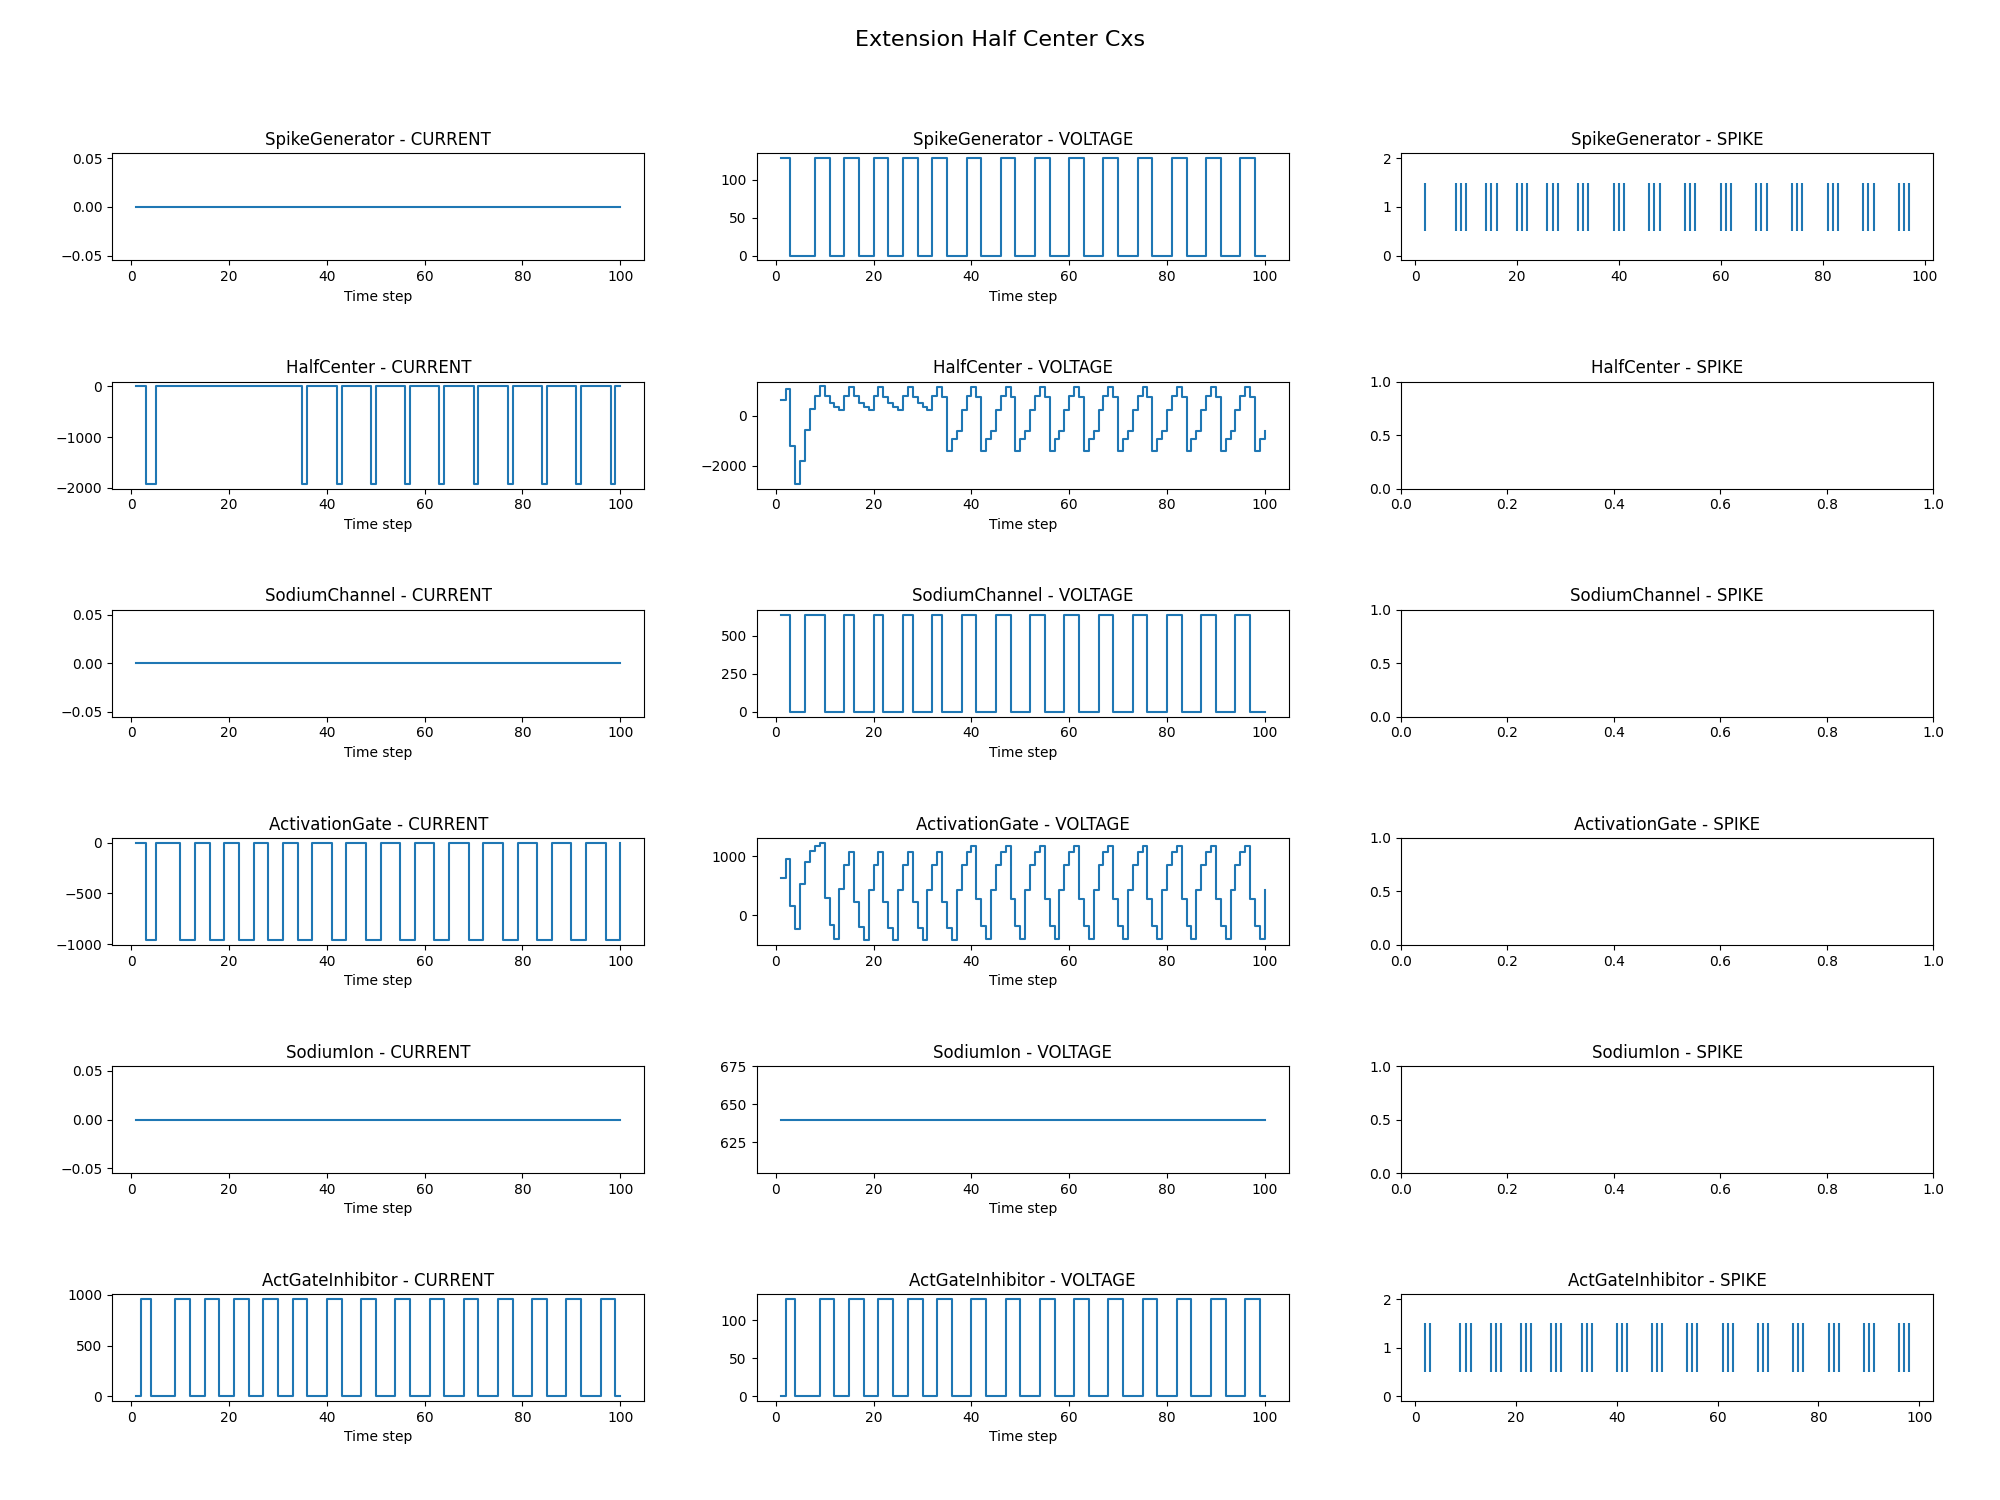
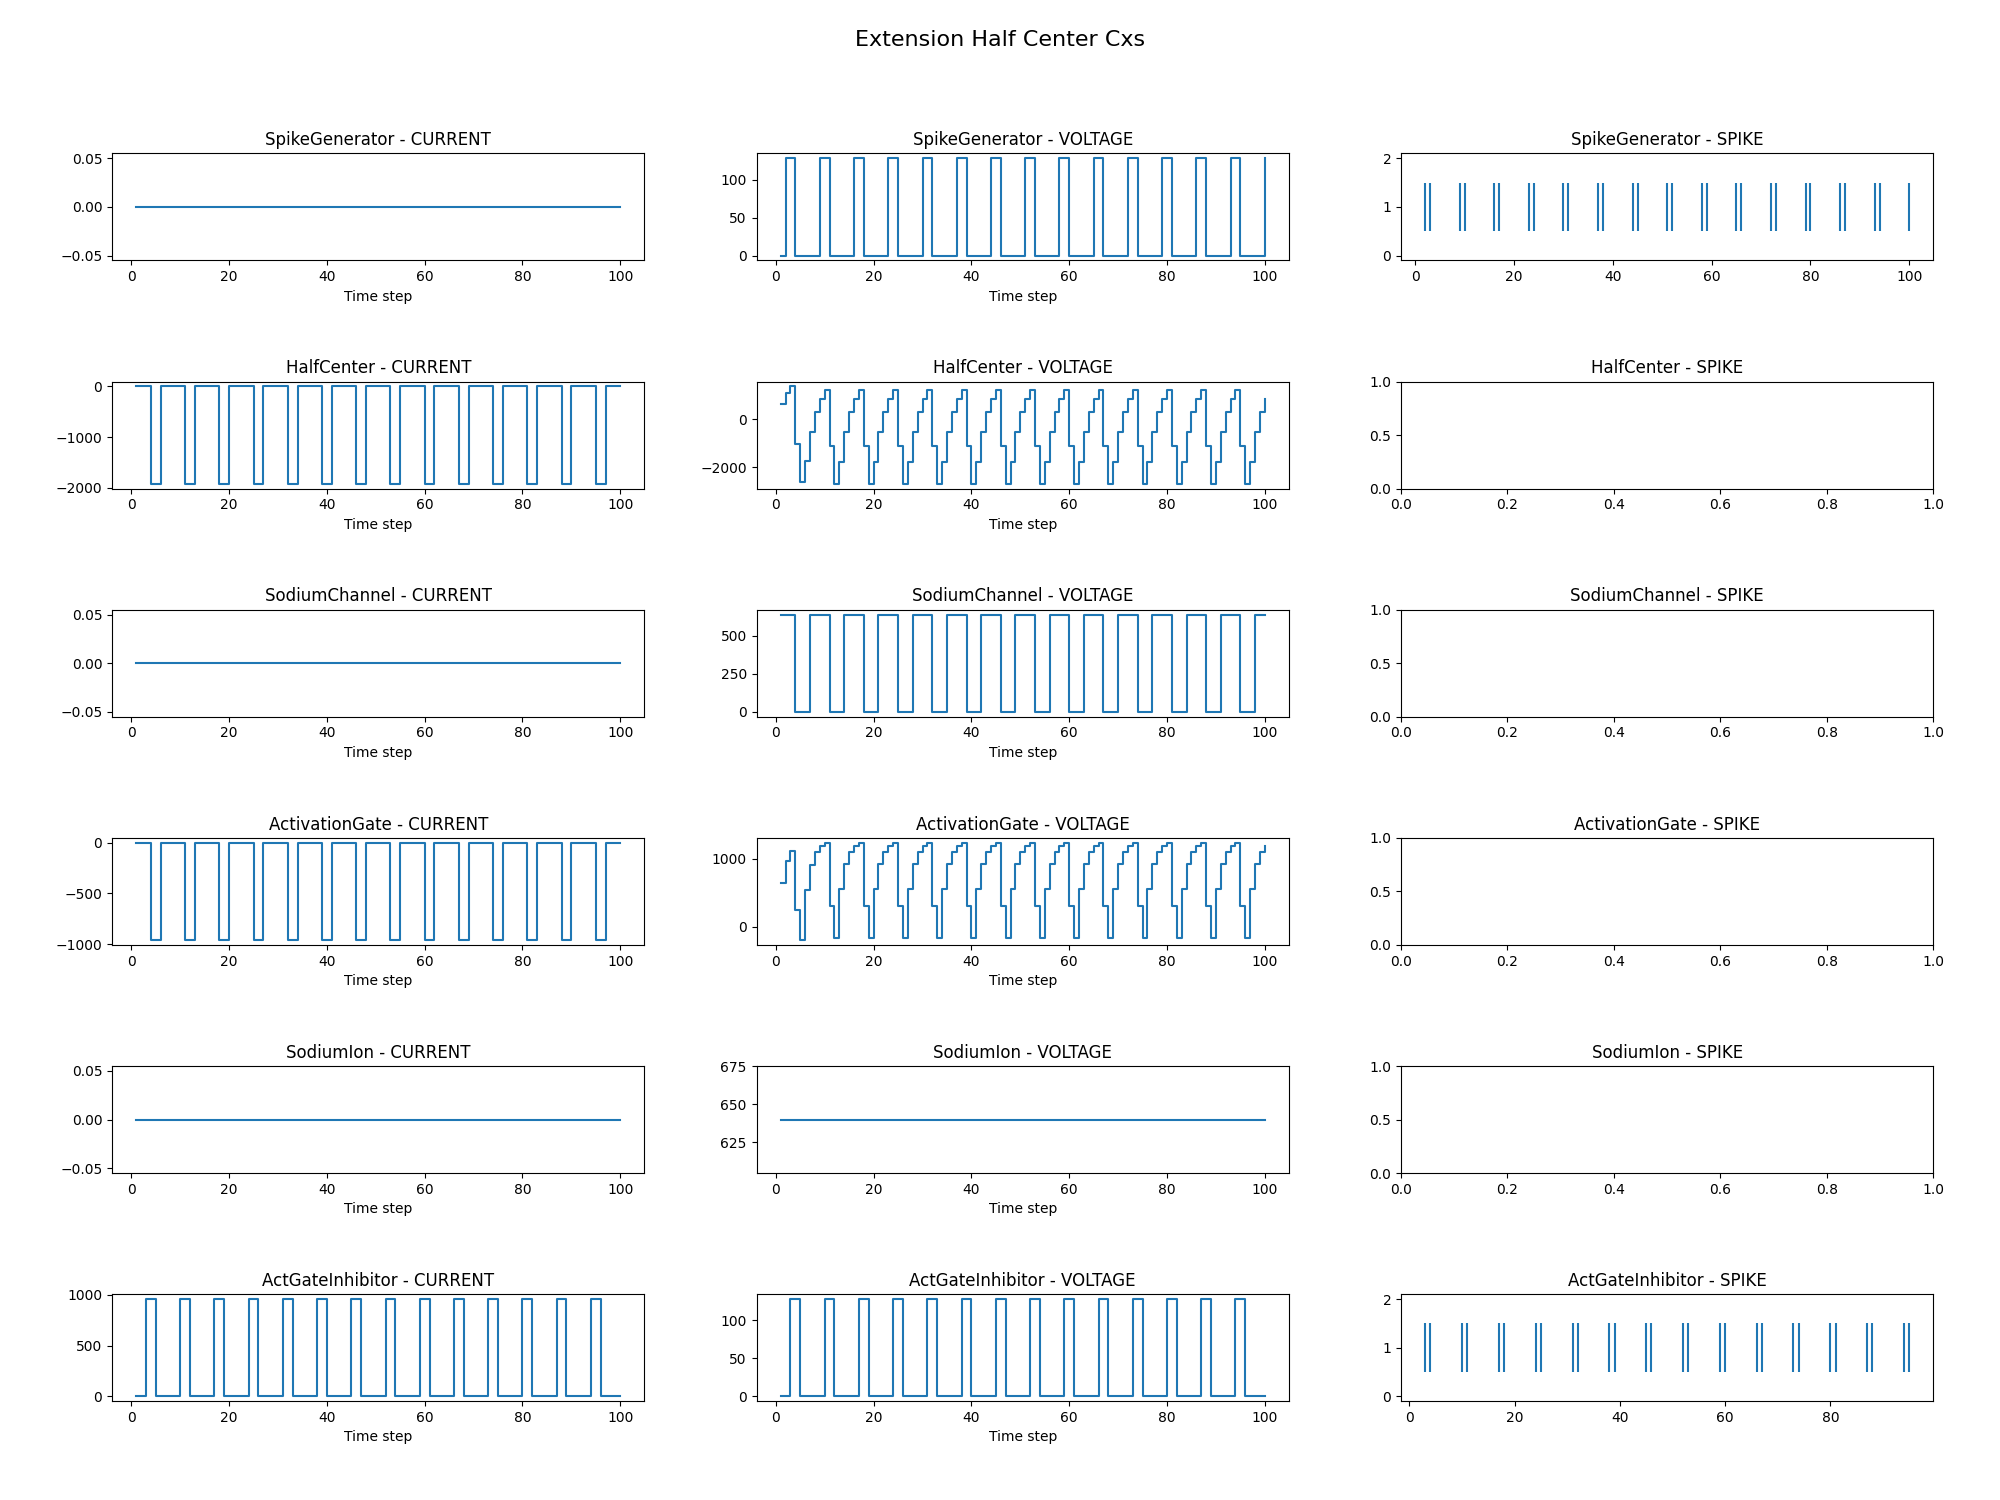
Comming before new branch to test new feature

diff --git a/lib/cpg/cpg.py b/lib/cpg/cpg.py
@@ -154,6 +154,10 @@ class CentralPatternGenerator:
     def FlexionInterneuron(self):
         return self.compartments[cpgCxType.FlexionInterneuron.value]
 
+
+##################################################################################################################
+################################CLASS DEFINITION#################################################################
+
 class HalfCenter:
     """
     Uses Loihi's multi-compartment neuron model to create a half center oscillator with the following compartments:
@@ -183,7 +187,8 @@ class HalfCenter:
         Main compartment of the half center oscillator as seen in the paper: 
          - "Design process and tools for dynamic neuromechanical models and robot controllers"
         """
-        self.HCVthMant = 9
+        self.HCVthMant = 10
+        self.HCBias = int((self.HCVthMant * 2 ** 6) - 100)
         self.HCCurrentDecay = 4096
         self.HCVoltageDecay = int(1 / 3 * 2 ** 12)
         """
@@ -261,7 +266,7 @@ class HalfCenter:
             vThMant=self.HCVthMant,
             compartmentVoltageDecay=self.HCVoltageDecay,
             thresholdBehavior=nx.COMPARTMENT_THRESHOLD_MODE.NO_SPIKE_AND_PASS_V_LG_VTH_TO_PARENT,
-            functionalState=nx.COMPARTMENT_FUNCTIONAL_STATE.IDLE
+            functionalState=nx.COMPARTMENT_FUNCTIONAL_STATE.IDLE,
         )
         SpikeGenerator_pt = nx.CompartmentPrototype(
             vThMant = self.SGVthMant,

diff --git a/src/main.py b/src/main.py
@@ -23,7 +23,7 @@ if __name__ == "__main__":
 
     net = nx.NxNet()
     my_cpg = CentralPatternGenerator(net)
-    my_cpg.stimulate_interneuron()
+    #my_cpg.stimulate_interneuron()
 
     net.run(NUMSTEPS)
     net.disconnect()
